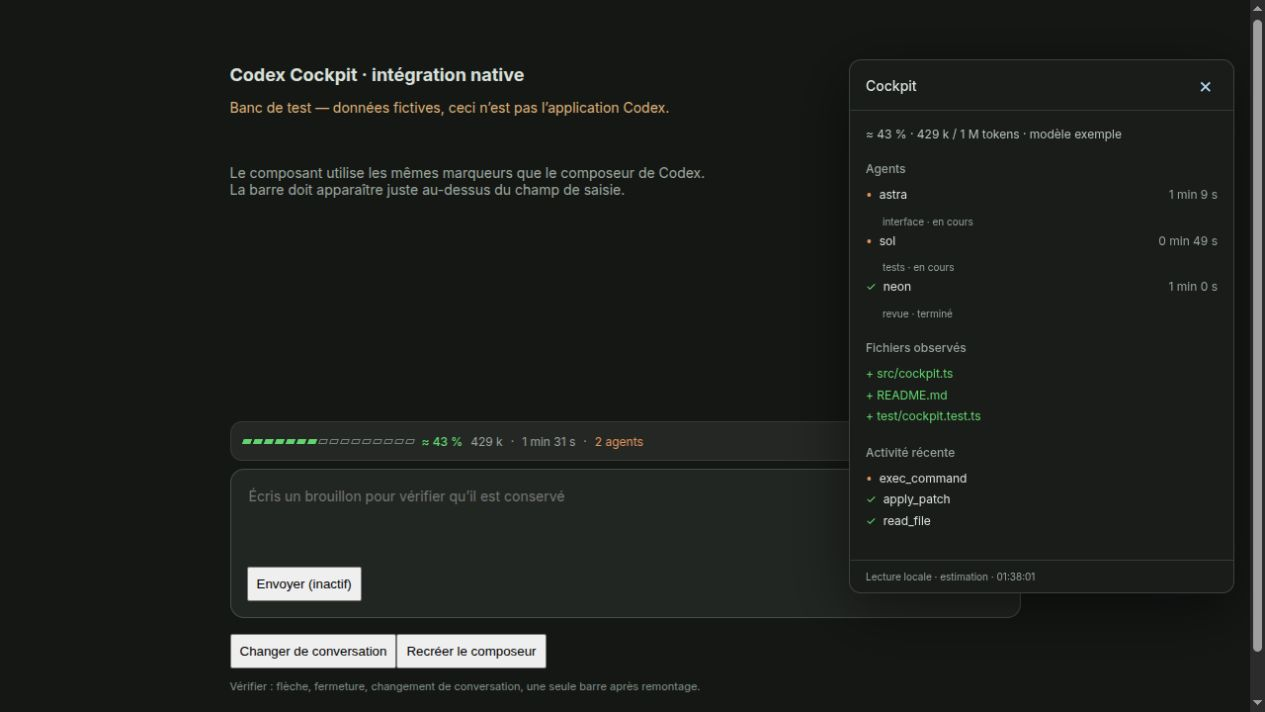
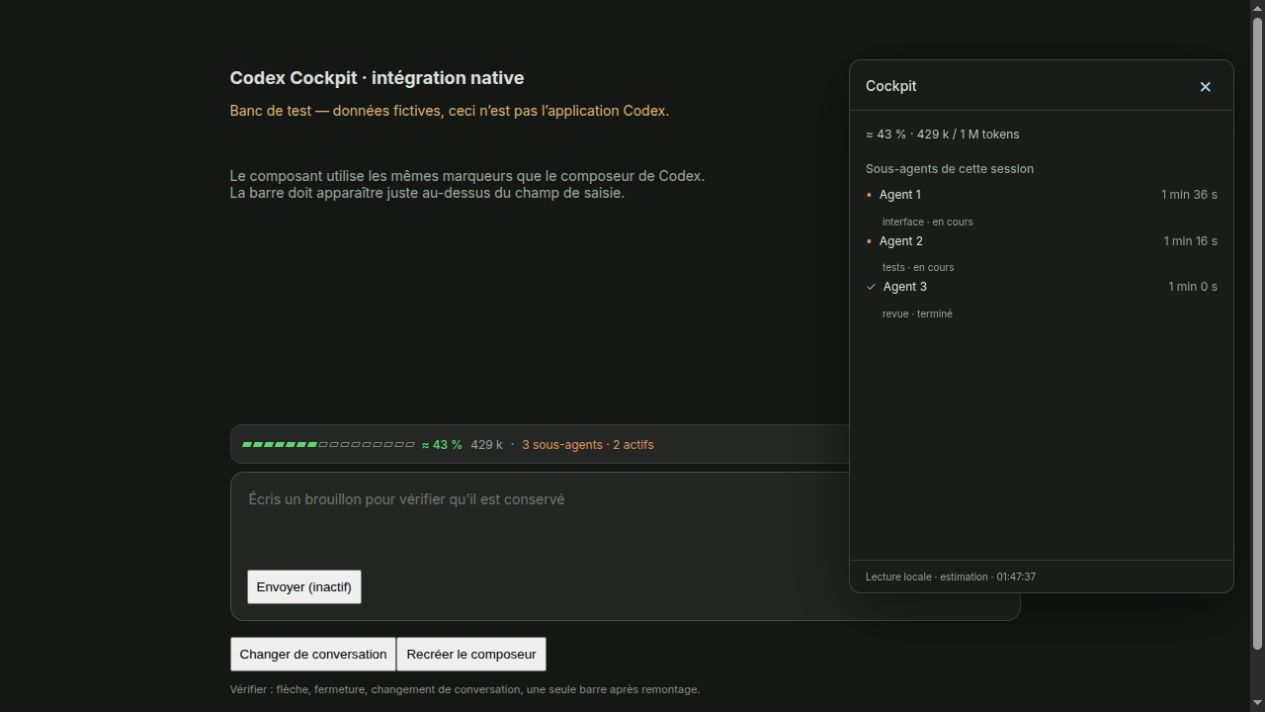
fix: focus cockpit on current-session context and sub-agents

diff --git a/web/app.js b/web/app.js
@@ -2,7 +2,7 @@ const $ = id => document.getElementById(id);
 const token = location.hash.slice(1) || sessionStorage.getItem('cockpit-token') || '';
 if (token) sessionStorage.setItem('cockpit-token', token);
 history.replaceState(null, '', location.pathname + location.search);
-let selected = new URLSearchParams(location.search).get('session') || '';
+const selected = new URLSearchParams(location.search).get('session') || '';
 const compact = n => n == null ? '—' : new Intl.NumberFormat('fr', { notation: 'compact', maximumFractionDigits: 1 }).format(n);
 const elapsed = (start, end = Date.now()) => {
   if (!start) return '—';
@@ -28,15 +28,9 @@ function activityRow(item, name, duration, tag = 'li') {
 }
 function render(data) {
   const s = data.selected;
-  const options = data.sessions.map(item => {
-    const label = `${item.cwd?.split('/').filter(Boolean).pop() || 'Session'} · ${item.id.slice(0, 8)}`;
-    const option = text('option', label); option.value = item.id; return option;
-  });
-  const placeholder = text('option', 'Suivre la conversation la plus récente'); placeholder.value = '';
-  $('session').replaceChildren(placeholder, ...options); $('session').value = selected;
   $('connection').textContent = data.source === 'demo' ? 'DÉMONSTRATION · données fictives' : 'Connecté · local';
   const notes = [];
-  if (!s) notes.push(selected ? 'Cette session ne figure pas parmi les sessions récentes chargées.' : 'Aucune session locale trouvée. Ouvre une conversation Codex, puis patiente quelques secondes.');
+  if (!s) notes.push(selected ? 'Cette session ne figure pas parmi les journaux locaux récents.' : 'Ouvre le Cockpit depuis la conversation à observer : aucune session n’est sélectionnée.');
   if (data.source === 'demo') notes.push('Démonstration : ces données sont fictives. Lance sans --demo pour lire Codex.');
   if (s?.stale) notes.push('Aucun événement récent : l’agent peut être inactif. État issu du journal.');
   if (s?.partial || s?.catchingUp) notes.push('Lecture du journal en cours ou incomplète ; certaines données peuvent manquer.');
@@ -47,13 +41,10 @@ function render(data) {
   meter('bar-meter', percent); meter('detail-meter', percent);
   $('bar-percent').textContent = pct; $('detail-percent').textContent = pct;
   $('bar-tokens').textContent = compact(s?.context?.used);
-  $('bar-time').textContent = elapsed(s?.startedAt, s?.status === 'running' ? Date.now() : s?.updatedAt);
   const active = data.agents.filter(a => a.status === 'running' && !a.stale).length;
-  $('bar-agents').textContent = `${active} agent${active === 1 ? '' : 's'}`;
+  const total = data.agents.length;
+  $('bar-agents').textContent = !s ? '— sous-agent' : `${total} sous-agent${total > 1 ? 's' : ''}${total ? ` · ${active} actif${active > 1 ? 's' : ''}` : ''}`;
   $('context-numbers').textContent = s?.context?.used != null ? `${compact(s.context.used)} / ${compact(s.context.window)} tokens · dernier appel observé` : 'Mesure de contexte indisponible';
-  $('model').textContent = s ? `${s.model ?? 'Modèle non renseigné'} · ${stateLabels[s.status] ?? 'état inconnu'}` : '';
-  const primary = s?.limits?.primary; const secondary = s?.limits?.secondary;
-  $('quotas').textContent = [primary && `${primary.window_minutes / 60} h : ${primary.used_percent} % utilisés`, secondary && `${secondary.window_minutes / 1440} j : ${secondary.used_percent} % utilisés`].filter(Boolean).join(' · ');
   $('agents-total').textContent = data.agents.length;
   list('agents', data.agents, agent => {
     const el = text('li', '');
@@ -61,9 +52,6 @@ function render(data) {
     el.append(text('div', [agent.role, agent.stale ? 'sans événement récent' : stateLabels[agent.status]].filter(Boolean).join(' · '), 'agent-role'));
     return el;
   }, 'Aucun sous-agent observé pour cette conversation.');
-  const files = s?.files ?? []; $('files-total').textContent = files.length;
-  list('files', files, file => text('li', file, 'file'), 'Aucun fichier identifié dans les appels structurés.');
-  list('activity', [...(s?.activities ?? [])].reverse().slice(0, 30), item => activityRow(item, item.name), 'Aucune activité observée.');
   $('updated').textContent = `Actualisé à ${new Date(data.generatedAt).toLocaleTimeString('fr')} · lecture locale`;
 }
 function setOpen(open) { $('cockpit').hidden = !open; $('toggle').setAttribute('aria-expanded', String(open)); $('arrow').textContent = open ? '▾' : '◂'; localStorage.setItem('cockpit-open', String(open)); }
@@ -71,8 +59,6 @@ $('toggle').addEventListener('click', () => setOpen($('cockpit').hidden));
 $('close').addEventListener('click', () => { setOpen(false); $('toggle').focus(); });
 $('expand').addEventListener('click', () => { const wide = $('cockpit').classList.toggle('wide'); $('expand').setAttribute('aria-label', wide ? 'Réduire le panneau' : 'Agrandir le panneau'); });
 document.addEventListener('keydown', e => { if (e.key === 'Escape') { setOpen(false); $('toggle').focus(); } });
-$('session').addEventListener('change', () => { selected = $('session').value; refresh(); });
-$('follow').addEventListener('click', () => { selected = ''; refresh(); });
 setOpen(localStorage.getItem('cockpit-open') === 'true');
 let busy = false;
 async function refresh() {
@@ -81,7 +67,7 @@ async function refresh() {
     const response = await fetch(`/api/snapshot${selected ? `?session=${encodeURIComponent(selected)}` : ''}`, { headers: { Authorization: `Bearer ${token}` }, signal: AbortSignal.timeout(20000) });
     if (!response.ok) throw new Error(response.status === 401 ? 'Accès expiré : rouvre l’URL fournie par Cockpit.' : 'Lecture locale indisponible.');
     render(await response.json());
-  } catch (error) { $('connection').textContent = 'Déconnecté'; $('notice').hidden = false; $('notice').textContent = error.message; }
+  } catch (error) { $('connection').textContent = 'Déconnecté'; $('notice').hidden = false; $('notice').textContent = error instanceof TypeError ? 'Le service local du Cockpit est arrêté. Rouvre le Cockpit depuis cette conversation pour rétablir la connexion.' : error.message; }
   finally { busy = false; }
 }
 await refresh();

diff --git a/native/renderer.js b/native/renderer.js
@@ -40,16 +40,16 @@
     shadow = host.attachShadow({ mode: 'open' });
     const sheet = new CSSStyleSheet(); sheet.replaceSync(css); shadow.adoptedStyleSheets = [sheet];
     nodes.bar = el('button', '', 'bar'); nodes.bar.type = 'button';
-    nodes.bar.setAttribute('aria-label', 'Ouvrir le Cockpit'); nodes.bar.setAttribute('aria-expanded', String(opened)); nodes.bar.setAttribute('aria-controls', 'native-cockpit-panel');
-    nodes.barMeter = meter(null); nodes.percent = el('strong', '—'); nodes.tokens = el('span', 'Contexte'); nodes.time = el('span', '—'); nodes.active = el('span', '0 agent', 'agents'); nodes.arrow = el('span', '◂', 'arrow');
-    nodes.bar.append(nodes.barMeter, nodes.percent, nodes.tokens, el('span', '·'), nodes.time, el('span', '·'), nodes.active, nodes.arrow);
+    nodes.bar.setAttribute('aria-label', 'Ouvrir le Cockpit'); nodes.bar.setAttribute('aria-expanded', String(opened));
+    nodes.barMeter = meter(null); nodes.percent = el('strong', '—'); nodes.tokens = el('span', 'Contexte'); nodes.active = el('span', '— sous-agent', 'agents'); nodes.arrow = el('span', '◂', 'arrow');
+    nodes.bar.append(nodes.barMeter, nodes.percent, nodes.tokens, el('span', '·'), nodes.active, nodes.arrow);
     nodes.bar.addEventListener('click', () => toggle(!opened));
     nodes.panel = el('aside', '', 'panel'); nodes.panel.id = 'native-cockpit-panel'; nodes.panel.setAttribute('aria-label', 'Cockpit');
     const header = el('header'); const close = el('button', '×'); close.type = 'button'; close.setAttribute('aria-label', 'Fermer le Cockpit');
     close.addEventListener('click', () => { toggle(false); nodes.bar.focus(); }); header.append(el('h1', 'Cockpit'), close);
     nodes.body = el('div', '', 'body'); nodes.panel.append(header, nodes.body);
     nodes.context = el('p'); nodes.notice = el('p', '', 'notice'); nodes.body.append(nodes.context, nodes.notice);
-    nodes.agents = section('Agents'); nodes.files = section('Fichiers observés'); nodes.activity = section('Activité récente');
+    nodes.agents = section('Sous-agents de cette session');
     nodes.footer = el('footer', 'Lecture locale · contexte estimé'); nodes.panel.append(nodes.footer);
     // A portal avoids clipping by transformed or overflow-hidden composer parents.
     portal = document.createElement('codex-cockpit-panel');
@@ -66,21 +66,18 @@
     const s = data?.selected; const percent = s?.context?.percent;
     const pct = percent == null ? '—' : `≈ ${percent} %`;
     const barMeter = meter(percent); nodes.barMeter.replaceWith(barMeter); nodes.barMeter = barMeter;
-    nodes.percent.textContent = pct; nodes.tokens.textContent = short(s?.context?.used); nodes.time.textContent = age(s);
+    nodes.percent.textContent = pct; nodes.tokens.textContent = short(s?.context?.used);
     const active = data?.agents?.filter(a => a.status === 'running' && !a.stale).length ?? 0;
-    nodes.active.textContent = `${active} agent${active > 1 ? 's' : ''}`;
-    nodes.bar.setAttribute('aria-label', `Cockpit : ${pct} de contexte, ${active} agent${active > 1 ? 's' : ''}`);
-    nodes.context.textContent = s ? `${pct} · ${short(s.context?.used)} / ${short(s.context?.window)} tokens · ${s.model ?? 'modèle inconnu'}` : 'Mesure de contexte indisponible';
+    const total = data?.agents?.length ?? 0;
+    nodes.active.textContent = !s ? '— sous-agent' : `${total} sous-agent${total > 1 ? 's' : ''}${total ? ` · ${active} actif${active > 1 ? 's' : ''}` : ''}`;
+    nodes.bar.setAttribute('aria-label', `Cockpit : ${pct} de contexte, ${total} sous-agent${total > 1 ? 's' : ''}`);
+    nodes.context.textContent = s ? `${pct} · ${short(s.context?.used)} / ${short(s.context?.window)} tokens` : 'Mesure de contexte indisponible';
     nodes.notice.textContent = !currentId ? 'Ouvre une conversation Codex pour afficher ses métriques.' : !s ? 'Cette conversation ne figure pas dans les journaux locaux récents.' : s.stale ? 'Sans événement récent : état en cours non confirmé.' : s.catchingUp || s.partial ? 'Lecture du journal en cours ou incomplète.' : '';
     nodes.notice.hidden = !nodes.notice.textContent;
     nodes.agents.replaceChildren(...(data?.agents ?? []).map(a => {
       const li = row(a, a.name, age(a)); if (a.role || a.stale) li.append(el('small', [a.role, a.stale ? 'sans événement récent' : labels[a.status]].filter(Boolean).join(' · '))); return li;
     }));
     if (!nodes.agents.children.length) nodes.agents.append(el('li', 'Aucun sous-agent observé.', 'empty'));
-    nodes.files.replaceChildren(...(s?.files ?? []).map(file => el('li', `+ ${file}`, 'file')));
-    if (!nodes.files.children.length) nodes.files.append(el('li', 'Aucune écriture structurée observée.', 'empty'));
-    nodes.activity.replaceChildren(...[...(s?.activities ?? [])].reverse().slice(0, 30).map(a => row(a, a.name)));
-    if (!nodes.activity.children.length) nodes.activity.append(el('li', 'Aucune activité observée.', 'empty'));
     nodes.footer.textContent = `Lecture locale · estimation · ${data ? new Date(data.generatedAt).toLocaleTimeString('fr') : 'en attente'}`;
   }
   globalThis.__codexCockpitNative = {

diff --git a/web/index.html b/web/index.html
@@ -4,21 +4,18 @@
 <body>
   <main>
     <header class="masthead"><span class="brand">◈ <strong>CODEX COCKPIT</strong></span><span id="connection" role="status">Connexion…</span></header>
-    <div class="toolbar"><label for="session">Conversation</label><select id="session"><option>Chargement…</option></select><button id="follow" title="Suivre la conversation la plus récente">Suivre la récente</button></div>
     <p id="notice" role="status" hidden></p>
     <button class="context-bar" id="toggle" aria-expanded="false" aria-controls="cockpit">
-      <span class="meter" id="bar-meter" aria-hidden="true"></span><strong id="bar-percent">—</strong><span id="bar-tokens">Contexte</span><span class="separator">·</span><span id="bar-time">—</span><span class="separator">·</span><span class="agent-count" id="bar-agents">0 agent</span><span class="arrow" id="arrow">◂</span>
+      <span class="meter" id="bar-meter" aria-hidden="true"></span><strong id="bar-percent">—</strong><span id="bar-tokens">Contexte</span><span class="separator">·</span><span class="agent-count" id="bar-agents">— sous-agent</span><span class="arrow" id="arrow">◂</span>
     </button>
     <aside id="cockpit" hidden aria-label="Cockpit">
       <div class="panel-header"><h1>Cockpit</h1><div><button id="expand" aria-label="Agrandir le panneau" title="Agrandir">⤢</button><button id="close" aria-label="Fermer le panneau">×</button></div></div>
       <div class="panel-content">
-        <section aria-labelledby="context-title"><h2 id="context-title">Contexte <span class="badge">ESTIMATION</span></h2><div class="context-detail"><span id="detail-meter" class="meter" aria-hidden="true"></span><strong id="detail-percent">—</strong></div><p id="context-numbers">En attente des données</p><p id="model" class="muted"></p><p id="quotas" class="muted"></p></section>
-        <section aria-labelledby="agents-title"><h2 id="agents-title">Agents <span id="agents-total" class="count">0</span></h2><ul id="agents"></ul></section>
-        <section aria-labelledby="files-title"><h2 id="files-title">Fichiers observés <span id="files-total" class="count">0</span></h2><ul id="files"></ul></section>
-        <section aria-labelledby="activity-title"><h2 id="activity-title">Activité récente</h2><ul id="activity"></ul></section>
+        <section aria-labelledby="context-title"><h2 id="context-title">Contexte <span class="badge">ESTIMATION</span></h2><div class="context-detail"><span id="detail-meter" class="meter" aria-hidden="true"></span><strong id="detail-percent">—</strong></div><p id="context-numbers">En attente des données</p></section>
+        <section aria-labelledby="agents-title"><h2 id="agents-title">Sous-agents de cette session <span id="agents-total" class="count">0</span></h2><ul id="agents"></ul></section>
       </div>
       <footer><span class="live-dot"></span><span id="updated">Actualisation locale · toutes les 2 s</span></footer>
     </aside>
-    <p class="footnote">Panneau compagnon pour Codex Desktop · lecture locale<br>Le plugin ne s’insère pas dans le champ de saisie natif.</p>
+    <p class="footnote">Contexte et sous-agents de la session · lecture locale</p>
   </main>
 </body></html>

diff --git a/README.md b/README.md
@@ -1,83 +1,54 @@
 # Codex Cockpit
 
-Un Cockpit local pour **Codex Desktop** : barre de contexte compacte, petite flèche pour ouvrir les détails, agents, fichiers et activité récente. Projet communautaire indépendant, sans affiliation avec OpenAI.
+Une barre au-dessus du champ de saisie de **Codex Desktop**, pour voir uniquement :
 
-**v0.2.0 : intégration au-dessus du champ de saisie natif sur Linux.** La flèche ouvre le panneau Cockpit dans la même fenêtre. Cette intégration utilise une copie locale modifiée de Codex, avec un adaptateur vérifié pour la version `26.1027.30824`. Le mode compagnon et le plugin MCP restent disponibles.
+- le contexte estimé de la session ouverte (tokens et pourcentage) ;
+- ses sous-agents, leur nombre et leur état, accessibles par la flèche.
 
-## Barre dans Codex Desktop
+Le nombre total inclut les sous-agents terminés ; le nombre actif est indiqué séparément. La barre suit l’identifiant de la conversation ouverte. Aucun sélecteur de sessions, suivi de la session la plus récente, fichier, commande ou journal d’activité n’est affiché ni renvoyé par l’API.
 
-Prérequis : Linux, Python 3.9+, Codex Desktop `26.1027.30824` installé dans `/usr/lib/chatgpt`. La préparation ne nécessite pas Node ; l'adaptateur utilise le runtime intégré de Codex.
+Projet communautaire indépendant, sans affiliation avec OpenAI. **Version 0.3.0**.
 
-```bash
-python3 scripts/prepare-native.py --check
-python3 scripts/prepare-native.py --destination "$PWD/../codex-cockpit-desktop"
-```
+## Installation native Linux
 
-Ferme complètement Codex Desktop, puis lance la copie préparée :
-
-```bash
-../codex-cockpit-desktop/launch-cockpit
-```
-
-La barre apparaît au-dessus du composeur d'une conversation Codex. Clique sur sa flèche pour afficher les agents, fichiers et outils dans le panneau. Elle suit la conversation ouverte et ne lit ni ne modifie le brouillon. Le mode natif ne démarre aucun serveur HTTP.
-
-L'application système reste intacte. Pour revenir à Codex d'origine, ferme la copie et utilise le lanceur habituel. Après une mise à jour de Codex, vérifie la compatibilité avant de recréer la copie dans un nouveau dossier. Les versions non reconnues sont refusées avant toute création de fichier. Voir [installation native et limites](docs/native.md).
-
-![Barre et panneau natifs dans un banc de test aux données fictives](docs/native-preview.png)
-
-## Démarrage
-
-Prérequis : Node.js 22 ou plus, Codex Desktop avec des sessions locales.
+Prérequis : Python 3.9+, Codex Desktop `26.1027.30824` installé dans `/usr/lib/chatgpt`.
 
 ```bash
 git clone https://github.com/PatLeGrand/codex-cockpit.git
 cd codex-cockpit
-node src/cli.mjs
+python3 scripts/prepare-native.py --check
+python3 scripts/prepare-native.py --destination "$PWD/../codex-cockpit-desktop"
 ```
 
-Ouvre l'URL affichée. Clique sur la petite flèche à droite de la barre pour ouvrir le Cockpit. Pas de dépendance à installer ni de clé API à configurer. Le serveur écoute exclusivement sur `127.0.0.1`, sur un port libre ; `--port 4318` fixe le port. Arrêt avec `Ctrl+C`.
+Ferme complètement Codex, puis lance `../codex-cockpit-desktop/launch-cockpit`. La copie locale contient l’intégration native ; l’application d’origine reste disponible avec son lanceur habituel. L’activation dans le profil réel doit être vérifiée après relance. Le préparateur refuse les versions inconnues et les dossiers de destination existants.
+
+Le mode natif utilise le runtime intégré à Codex et ne dépend d’aucun serveur web local. Voir [installation native](docs/native.md).
+
+![Contexte et sous-agents dans un composeur synthétique](docs/native-preview.png)
+
+## Outils MCP et aperçu facultatifs
+
+Le dépôt contient aussi un plugin MCP local pour consulter ces mêmes métriques. Ajoute le catalogue avec `codex plugin marketplace add PatLeGrand/codex-cockpit`, puis installe le plugin dans Codex Desktop. La compatibilité du catalogue dépend de la version de Codex.
+
+Les outils `open_cockpit` et `cockpit_snapshot` exigent tous deux l’identifiant `session` du chat courant. Ils ne choisissent jamais une autre conversation par défaut. Le panneau web facultatif nécessite Node.js 22+ :
 
 ```bash
-node src/cli.mjs --demo # aperçu avec données fictives, signalé dans l'interface
-npm test                # tests Node + Python
+node src/cli.mjs --session ID_DE_LA_CONVERSATION
+node src/cli.mjs --demo # aperçu explicitement signalé comme fictif
 ```
 
-## Plugin Codex Desktop
+Si le service web s’arrête, rouvre le Cockpit depuis la conversation pour obtenir une nouvelle connexion. Cet arrêt n’affecte pas la barre native.
 
-Ce mode ouvre le panneau compagnon dans un onglet ; pour la barre native, utilise la procédure précédente. Le dépôt fournit un manifeste de compatibilité Codex, un catalogue et un serveur MCP local stdio. Ajoute le catalogue :
+## Données et limites
 
-```bash
-codex plugin marketplace add PatLeGrand/codex-cockpit
-```
+Le contexte est estimé à partir de `last_token_usage.total_tokens / model_context_window`. Le cumul des tokens ne représente pas l’occupation du contexte. Les données absentes restent indisponibles.
 
-Redémarre Codex Desktop, ouvre les plugins, sélectionne la source **Codex Cockpit**, puis installe **codex-cockpit**. Demande ensuite « Ouvre le Cockpit pour cette conversation ». Le skill récupère l'URL privée et utilise l'outil d'ouverture du panneau navigateur lorsqu'il est disponible.
+Les sous-agents sont reliés par `parent_thread_id`, descendants inclus. Leur état provient des derniers événements de tour ; un état en cours sans événement depuis deux minutes est signalé comme non confirmé.
 
-La découverte et l'installation dans le catalogue sont à valider sur chaque version de Codex Desktop. Le serveur MCP et le panneau se testent aussi indépendamment avec les commandes ci-dessus. Le plugin doit tourner sur la machine où sont les journaux : une connexion MCP distante ne donne pas accès aux sessions locales.
+La lecture incrémentale concerne `$CODEX_HOME/sessions` (par défaut `~/.codex/sessions`), jusqu’à 160 journaux récents, avec actualisation toutes les deux secondes. Les formats paginés, distants ou modifiés par une mise à jour de Codex peuvent être incomplets.
 
-Outils exposés : `open_cockpit` renvoie l'URL du panneau ; `cockpit_snapshot` renvoie les métriques observées, avec un paramètre optionnel `session` pour choisir une conversation.
-
-## Données affichées
-
-| Élément | Source et limite |
-| --- | --- |
-| Contexte | Estimation depuis `last_token_usage.total_tokens / model_context_window`. Le cumul de tokens n'est jamais utilisé comme occupation de contexte. |
-| Agents | Sessions reliées explicitement par `parent_thread_id`, descendants inclus. Pas de rapprochement par dossier ou par heure. |
-| État | Derniers événements `task_started`, `task_complete`, `turn_aborted`. Un état en cours sans événement depuis 2 minutes est marqué ancien. |
-| Durée | Début du dernier tour observé, fin au dernier événement pour les tours terminés. |
-| Fichiers | Chemins explicites des outils d'écriture et en-têtes `apply_patch`. Les modifications dans des commandes shell ou des appels imbriqués ne sont pas détectées. |
-| Activité | Noms et résultats structurés des appels d'outils. Les erreurs dans du texte libre peuvent ne pas être reconnues. |
-| Quotas | Pourcentages utilisés des fenêtres de limitation, si présents dans le journal. |
-
-Les coûts monétaires ne sont pas affichés : les journaux ne fournissent pas de facture fiable. Les métriques absentes restent indisponibles. Les noms d'agents ne sont affichés que s'ils sont fournis ; sinon leur identifiant est utilisé.
-
-Lecture incrémentale de `$CODEX_HOME/sessions` (par défaut `~/.codex/sessions`), jusqu'à 160 journaux récents, actualisation toutes les 2 secondes. Les gros journaux peuvent nécessiter plusieurs cycles. Le format des journaux est un adaptateur expérimental, susceptible de changer avec Codex. Les sessions stockées exclusivement ailleurs, paginées hors de ces journaux ou exécutées à distance peuvent être absentes.
-
-## Confidentialité
-
-Le serveur ne modifie pas les conversations et ne lance pas de tâche Codex. Il ne transmet rien à un service externe. L'accès aux métriques nécessite le jeton aléatoire fourni dans le fragment de l'URL ; le navigateur l'envoie dans un en-tête local. Ne partage pas cette URL. Les conversations, instructions et résultats bruts ne sont pas exposés par l'API. Des noms d'outils, chemins et identifiants de sessions peuvent être visibles dans le panneau.
+Le plugin ne transmet rien à un service externe et n’expose ni prompts, ni noms de projets, ni chemins, ni appels d’outils. Le mode web protège les métriques par un jeton local éphémère. Ne partage pas son URL.
 
 ## Maintenance
 
-Voir [architecture](docs/architecture.md) et [feuille de route](docs/roadmap.md). Les correctifs passent par une pull request ; la CI teste Node 22 et 24. Rapporte les problèmes de compatibilité en indiquant la version de Codex, ton système et un exemple synthétique, sans joindre tes journaux privés.
-
-Documentation de référence : [plugins Codex](https://developers.openai.com/plugins/build/plugins), [App Server](https://learn.chatgpt.com/docs/app-server). Licence MIT.
+`npm test` exécute les tests Node et Python. La CI vérifie Node 22 et 24. Voir [architecture](docs/architecture.md), [intégration native](docs/native.md) et [feuille de route](docs/roadmap.md). Rapporte les problèmes avec des exemples synthétiques, sans joindre tes journaux privés. Licence MIT.

diff --git a/docs/architecture.md b/docs/architecture.md
@@ -1,19 +1,18 @@
 # Architecture
 
-`src/sessions.mjs` transforme les événements JSONL locaux en un instantané normalisé. Le cache garde un curseur par fichier et attend une fin de ligne avant de parser un enregistrement. Les réécritures plus courtes réinitialisent le lecteur. Les symlinks de l'arborescence ne sont pas suivis. Aucun texte de message, prompt ou résultat brut n'est conservé dans le modèle exposé.
+`src/sessions.mjs` transforme les événements JSONL locaux en un instantané normalisé. Le cache garde un curseur par fichier et attend une fin de ligne avant de parser un enregistrement. Les réécritures plus courtes réinitialisent le lecteur. Les symlinks de l'arborescence ne sont pas suivis. Seuls le contexte et l'état des sous-agents sont conservés. Aucun prompt, chemin de projet, fichier ou appel d'outil n'est conservé dans le modèle exposé.
 
 `src/server.mjs` sert trois ressources statiques et une API GET authentifiée. Host et Origin sont vérifiés, aucun CORS n'est activé, la CSP refuse les ressources tierces. Le jeton est éphémère. Le navigateur le conserve dans son sessionStorage après avoir nettoyé l'URL. Ce serveur est destiné à une machine personnelle ; ce n'est pas un service multi-utilisateur.
 
 `src/mcp.mjs` fournit un serveur JSON-RPC MCP stdio minimal avec initialisation, ping et deux outils. Il ne lance aucun agent et ne se connecte pas au processus App Server de Codex. Le navigateur est hébergé par le même processus ; il s'arrête lorsque le client MCP ferme stdin.
 
-`web/` est une interface JavaScript sans build. Elle utilise textContent pour les données observées, garde l'ouverture du panneau en mémoire locale, permet de choisir une session et suspend l'actualisation des onglets masqués. Le clavier permet d'ouvrir la barre et Échap ferme le panneau.
+`web/` est une interface JavaScript sans build. Elle utilise textContent pour les données observées, garde l'ouverture du panneau en mémoire locale, reste liée à l'identifiant de la session fourni à l'ouverture et suspend l'actualisation des onglets masqués. Le clavier permet d'ouvrir la barre et Échap ferme le panneau.
 
 ## Limites connues
 
 - Lecture des 160 journaux les plus récents selon les dossiers datés et noms de fichiers, pas de recherche historique exhaustive.
 - Au plus 8 Mio lus par fichier et par cycle. Une ligne de plus de 4 Mio est ignorée et signalée ; une fin de ligne partielle est relue au cycle suivant.
 - Le journal n'est pas une sonde du processus : un arrêt brutal peut laisser un dernier état en cours.
-- Les outils appelés dans du code imbriqué peuvent apparaître uniquement sous leur enveloppe `exec` ; aucun parsing de code ou de commandes shell n'est effectué.
 - Le mode natif utilise un adaptateur local lié à une version précise de l'application ; il ne constitue pas une API de plugin officielle. Voir [intégration native](native.md).
 
 Pour maintenir l'adaptateur, ajouter un cas synthétique au lecteur et tester le format avant de changer son interprétation. Ne jamais inclure de journaux réels dans le dépôt.

diff --git a/skills/cockpit/SKILL.md b/skills/cockpit/SKILL.md
@@ -3,9 +3,11 @@ name: cockpit
 description: Open the local Codex Cockpit companion panel or inspect context estimates and observed sub-agent activity when the user asks for Cockpit.
 ---
 
-Call the plugin's `open_cockpit` tool to obtain its current loopback URL. When `open_in_codex` is available, open that exact URL as a browser target in the right panel of the current chat. Otherwise provide the URL as a link. Do not publish the URL externally: its fragment contains the local access token.
+Use the current conversation's exact session ID for both `open_cockpit` and `cockpit_snapshot`; the tools require it. Never infer the current session from modification time, a working directory or another project. If the current chat ID is unavailable, obtain it from the app's thread context before calling the tools.
 
-For a textual status request, use `cockpit_snapshot`. Its default follows the most recently updated root session; pass the current chat ID when it is known to avoid confusing it with another conversation. Append `?session=<chat ID>` before the URL fragment when opening a specific conversation.
+`open_cockpit` returns a private loopback URL already pinned to that conversation. Open the exact URL with `open_in_codex` in the current chat when available, otherwise provide a link. The URL fragment contains the local access token; do not publish it externally. If the web service has stopped, call `open_cockpit` again from an active plugin connection to obtain its current URL.
+
+Display only session context estimates and its sub-agent states. Do not add a session picker, project information, file lists or tool activity.
 
 For a request to place the bar above the native composer, use the separate local-copy installer described in ../../docs/native.md. The supported Linux build is 26.1027.30824; check compatibility with `python3 scripts/prepare-native.py --check` before preparing a copy in a new directory. This modifies the copy, never the system application. Do not close the user's active Codex process; explain that activation requires exiting Codex and using the generated launcher. The MCP browser panel alone does not activate native insertion.
 

diff --git a/docs/roadmap.md b/docs/roadmap.md
@@ -9,5 +9,5 @@
 - [x] Barre au-dessus du composeur natif et panneau dans la même fenêtre, via une copie locale modifiée sur Linux (`26.1027.30824`).
 - [ ] Remplacer l'adaptateur local par une API publique d'insertion native si une telle API devient disponible.
 - [ ] Ajouter des profils de compatibilité pour les prochaines versions de Codex et d'autres systèmes.
-- [ ] Améliorer l'identification des écritures et des résultats d'outils imbriqués.
+- [x] Limiter le plugin au contexte de la session ouverte et à ses sous-agents, sans sélecteur ni activité de projet.
 - [ ] Ajouter une interface anglaise et des contrôles d'affichage.
